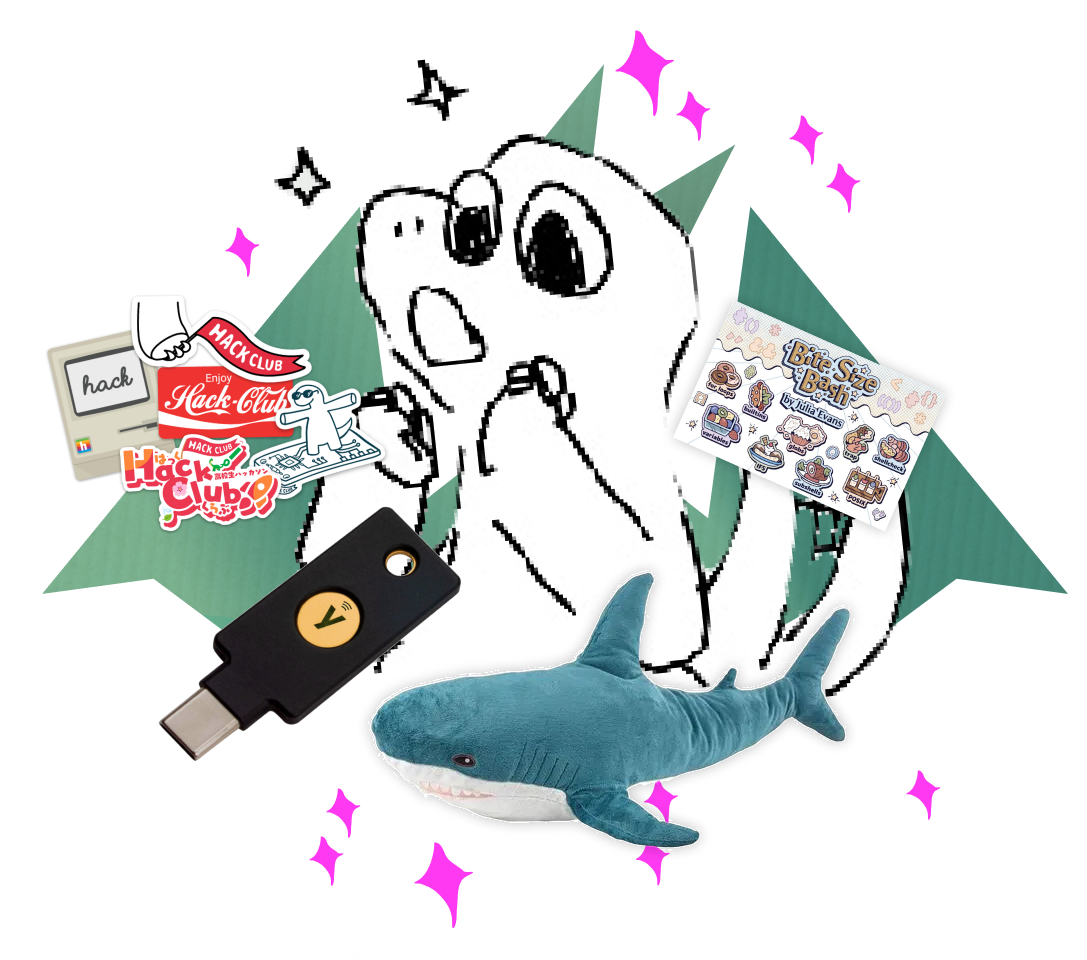
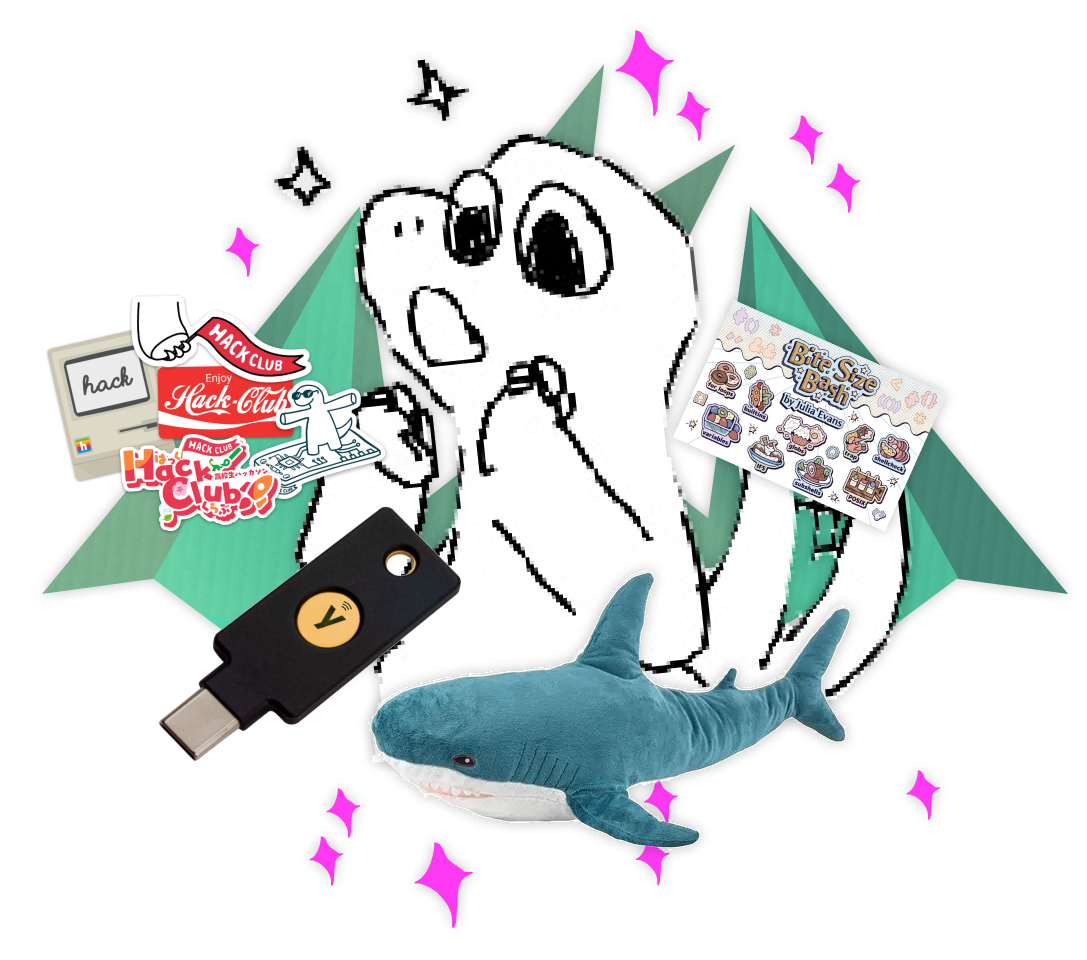
updated orphwoah image, made it bobble

diff --git a/src/app/marketing/page.tsx b/src/app/marketing/page.tsx
@@ -47,7 +47,9 @@ export default function Marketing() {
             </p>
           </div>
           <div className="landing-right">
+            <div className="bobble">
               <Image src={orphwoah} alt="orpheus"/>
+            </div>
           </div>
         </div>
 

diff --git a/src/app/marketing/index.css b/src/app/marketing/index.css
@@ -110,3 +110,16 @@
     color: lightpink;
     text-decoration: underline;
 }
+
+.bobble {
+    animation: bobble 2s infinite;
+  }
+  
+  @keyframes bobble {
+    0%, 100% {
+      transform: translateY(0);
+    }
+    50% {
+      transform: translateY(-10px);
+    }
+  }
